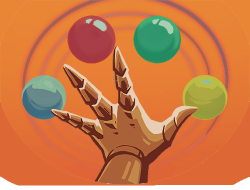
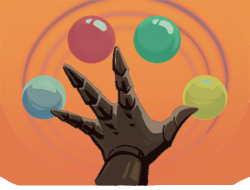
Added Interrupt and Intron cards; updated artwork for various cards

Changed region(s): [[0.196, 0.2368, 0.812, 1.0]]

diff --git a/src/main/java/hydrahatrack/clintock/cards/A17.java b/src/main/java/hydrahatrack/clintock/cards/A17.java
@@ -1,0 +1,65 @@
+package hydrahatrack.clintock.cards;
+
+import basemod.abstracts.CustomCard;
+import com.megacrit.cardcrawl.actions.AbstractGameAction;
+import com.megacrit.cardcrawl.actions.animations.VFXAction;
+import com.megacrit.cardcrawl.actions.common.ApplyPowerAction;
+import com.megacrit.cardcrawl.actions.common.DamageAllEnemiesAction;
+import com.megacrit.cardcrawl.actions.utility.SFXAction;
+import com.megacrit.cardcrawl.characters.AbstractPlayer;
+import com.megacrit.cardcrawl.core.CardCrawlGame;
+import com.megacrit.cardcrawl.dungeons.AbstractDungeon;
+import com.megacrit.cardcrawl.localization.CardStrings;
+import com.megacrit.cardcrawl.monsters.AbstractMonster;
+import com.megacrit.cardcrawl.powers.VulnerablePower;
+import com.megacrit.cardcrawl.vfx.combat.CleaveEffect;
+import hydrahatrack.clintock.ClintockMod;
+import hydrahatrack.clintock.enums.AbstractCardEnum;
+import hydrahatrack.clintock.powers.PeptideChainPower;
+
+public class A17 extends CustomCard {
+    public static final String ID = "clintock:A17";
+    private static final CardStrings cardStrings = CardCrawlGame.languagePack.getCardStrings(ID);
+    public static final String NAME = cardStrings.NAME;
+    public static final String DESCRIPTION = cardStrings.DESCRIPTION;
+    private static final int COST = 2;
+    private static final int ATTACK_DMG = 11;
+    private static final int VULNERABLE_AMOUNT = 2;
+    private static final int UPGRADE_PLUS_ATTACK_DMG = 3;
+    private static final int UPGRADE_PLUS_VULNERABLE_AMOUNT = 1;
+
+    public A17() {
+        super(ID, NAME, ClintockMod.getCardImagePath(ID), COST, DESCRIPTION, CardType.ATTACK,
+                AbstractCardEnum.CLINTOCK_COLOR, CardRarity.UNCOMMON, CardTarget.ALL_ENEMY);
+
+        this.baseDamage = this.damage = ATTACK_DMG;
+        this.baseMagicNumber = this.magicNumber = VULNERABLE_AMOUNT;
+        this.isMultiDamage = true;
+    }
+
+    @Override
+    public void use(final AbstractPlayer p, final AbstractMonster m) {
+        AbstractDungeon.actionManager.addToBottom(new SFXAction("ATTACK_HEAVY"));
+        AbstractDungeon.actionManager.addToBottom(new VFXAction(p, new CleaveEffect(), 0.1F));
+        AbstractDungeon.actionManager.addToBottom(new DamageAllEnemiesAction(
+                p, this.multiDamage, this.damageType, AbstractGameAction.AttackEffect.NONE, false));
+
+        PeptideChainPower power = (PeptideChainPower) p.getPower(PeptideChainPower.POWER_ID);
+        if (null != power && power.containsAtLeastOneNonessentialAminoAcid()) {
+            for (AbstractMonster mo : AbstractDungeon.getCurrRoom().monsters.monsters) {
+                AbstractDungeon.actionManager.addToBottom(
+                        new ApplyPowerAction(mo, p, new VulnerablePower(mo, this.magicNumber, false),
+                                this.magicNumber, true, AbstractGameAction.AttackEffect.NONE));
+            }
+        }
+    }
+
+    @Override
+    public void upgrade() {
+        if (!this.upgraded) {
+            upgradeName();
+            this.upgradeDamage(UPGRADE_PLUS_ATTACK_DMG);
+            this.upgradeMagicNumber(UPGRADE_PLUS_VULNERABLE_AMOUNT);
+        }
+    }
+}

diff --git a/src/main/java/hydrahatrack/clintock/cards/Interrupt.java b/src/main/java/hydrahatrack/clintock/cards/Interrupt.java
@@ -1,0 +1,48 @@
+package hydrahatrack.clintock.cards;
+
+import basemod.abstracts.CustomCard;
+import com.megacrit.cardcrawl.actions.AbstractGameAction;
+import com.megacrit.cardcrawl.actions.common.DamageAction;
+import com.megacrit.cardcrawl.actions.common.MakeTempCardInDrawPileAction;
+import com.megacrit.cardcrawl.cards.DamageInfo;
+import com.megacrit.cardcrawl.characters.AbstractPlayer;
+import com.megacrit.cardcrawl.core.CardCrawlGame;
+import com.megacrit.cardcrawl.dungeons.AbstractDungeon;
+import com.megacrit.cardcrawl.localization.CardStrings;
+import com.megacrit.cardcrawl.monsters.AbstractMonster;
+import hydrahatrack.clintock.ClintockMod;
+import hydrahatrack.clintock.enums.AbstractCardEnum;
+
+public class Interrupt extends CustomCard {
+    public static final String ID = "clintock:Interrupt";
+    private static final CardStrings cardStrings = CardCrawlGame.languagePack.getCardStrings(ID);
+    public static final String NAME = cardStrings.NAME;
+    public static final String DESCRIPTION = cardStrings.DESCRIPTION;
+    private static final int COST = 1;
+    private static final int ATTACK_DMG = 13;
+    private static final int UPGRADE_PLUS_ATTACK_DMG = 5;
+
+    public Interrupt() {
+        super(ID, NAME, ClintockMod.getCardImagePath(ID), COST, DESCRIPTION, CardType.ATTACK,
+                AbstractCardEnum.CLINTOCK_COLOR, CardRarity.COMMON, CardTarget.ENEMY);
+
+        this.baseDamage = this.damage = ATTACK_DMG;
+    }
+
+    @Override
+    public void use(final AbstractPlayer p, final AbstractMonster m) {
+        AbstractDungeon.actionManager.addToBottom(new DamageAction(
+                m, new DamageInfo(p, this.damage, this.damageTypeForTurn),
+                AbstractGameAction.AttackEffect.SLASH_HEAVY));
+        AbstractDungeon.actionManager.addToBottom(
+                new MakeTempCardInDrawPileAction(new Intron(), 1, true, true));
+    }
+
+    @Override
+    public void upgrade() {
+        if (!this.upgraded) {
+            this.upgradeName();
+            this.upgradeDamage(UPGRADE_PLUS_ATTACK_DMG);
+        }
+    }
+}

diff --git a/src/main/java/hydrahatrack/clintock/cards/Intron.java b/src/main/java/hydrahatrack/clintock/cards/Intron.java
@@ -1,0 +1,44 @@
+package hydrahatrack.clintock.cards;
+
+import basemod.abstracts.CustomCard;
+import com.megacrit.cardcrawl.actions.common.ApplyPowerAction;
+import com.megacrit.cardcrawl.actions.utility.UseCardAction;
+import com.megacrit.cardcrawl.characters.AbstractPlayer;
+import com.megacrit.cardcrawl.core.CardCrawlGame;
+import com.megacrit.cardcrawl.dungeons.AbstractDungeon;
+import com.megacrit.cardcrawl.localization.CardStrings;
+import com.megacrit.cardcrawl.monsters.AbstractMonster;
+import com.megacrit.cardcrawl.relics.MedicalKit;
+import hydrahatrack.clintock.ClintockMod;
+import hydrahatrack.clintock.powers.InterruptedPower;
+
+public class Intron extends CustomCard {
+    public static final String ID = "clintock:Intron";
+    private static final CardStrings cardStrings = CardCrawlGame.languagePack.getCardStrings(ID);
+    public static final String NAME = cardStrings.NAME;
+    public static final String DESCRIPTION = cardStrings.DESCRIPTION;
+    private static final int COST = -2;
+
+    public Intron() {
+        super(ID, NAME, ClintockMod.getCardImagePath(ID), COST, DESCRIPTION, CardType.STATUS,
+                CardColor.COLORLESS, CardRarity.COMMON, CardTarget.NONE);
+    }
+
+    @Override
+    public void triggerWhenDrawn() {
+        AbstractDungeon.actionManager.addToTop(new ApplyPowerAction(
+                AbstractDungeon.player, AbstractDungeon.player,
+                new InterruptedPower(AbstractDungeon.player)));
+    }
+
+    public void use(final AbstractPlayer p, final AbstractMonster m) {
+        if (p.hasRelic(MedicalKit.ID)) {
+            useMedicalKit(p);
+        } else {
+            AbstractDungeon.actionManager.addToBottom(new UseCardAction(this));
+        }
+    }
+
+    @Override
+    public void upgrade() {}
+}

diff --git a/src/main/java/hydrahatrack/clintock/powers/InterruptedPower.java b/src/main/java/hydrahatrack/clintock/powers/InterruptedPower.java
@@ -1,0 +1,46 @@
+package hydrahatrack.clintock.powers;
+
+import com.badlogic.gdx.graphics.Texture;
+import com.megacrit.cardcrawl.actions.common.RemoveSpecificPowerAction;
+import com.megacrit.cardcrawl.core.AbstractCreature;
+import com.megacrit.cardcrawl.core.CardCrawlGame;
+import com.megacrit.cardcrawl.dungeons.AbstractDungeon;
+import com.megacrit.cardcrawl.helpers.ImageMaster;
+import com.megacrit.cardcrawl.localization.PowerStrings;
+import com.megacrit.cardcrawl.powers.AbstractPower;
+import hydrahatrack.clintock.ClintockMod;
+
+public class InterruptedPower extends AbstractPower {
+    public static final String POWER_ID = "clintock:InterruptedPower";
+    private static final PowerStrings powerStrings = CardCrawlGame.languagePack.getPowerStrings(POWER_ID);
+    public static final String NAME = powerStrings.NAME;
+    public static final String[] DESCRIPTIONS = powerStrings.DESCRIPTIONS;
+    private static final Texture IMG = ImageMaster.loadImage(ClintockMod.getPowerImagePath(POWER_ID));
+
+    public InterruptedPower(final AbstractCreature owner) {
+        this.ID = POWER_ID;
+        this.name = NAME;
+        this.owner = owner;
+        this.img = IMG;
+        this.updateDescription();
+    }
+
+    @Override
+    public void atEndOfTurn(final boolean isPlayer) {
+        if (isPlayer) {
+            AbstractDungeon.actionManager.addToBottom(
+                    new RemoveSpecificPowerAction(this.owner, this.owner, this.ID));
+        }
+    }
+
+    @Override
+    public void playApplyPowerSfx() {
+        CardCrawlGame.sound.play("ENTANGLE", 0.05F);
+    }
+
+    @Override
+    public void updateDescription() {
+        this.description = DESCRIPTIONS[0];
+        this.type = PowerType.DEBUFF;
+    }
+}

diff --git a/src/main/java/hydrahatrack/clintock/orbs/GuanineOrb.java b/src/main/java/hydrahatrack/clintock/orbs/GuanineOrb.java
@@ -9,6 +9,7 @@ import com.megacrit.cardcrawl.localization.OrbStrings;
 import com.megacrit.cardcrawl.orbs.AbstractOrb;
 import com.megacrit.cardcrawl.vfx.combat.OrbFlareEffect;
 import hydrahatrack.clintock.ClintockMod;
+import hydrahatrack.clintock.powers.InterruptedPower;
 
 public class GuanineOrb extends NucleobaseOrb {
     private static final String ORB_ID = "clintock:GuanineOrb";
@@ -38,8 +39,12 @@ public class GuanineOrb extends NucleobaseOrb {
 
     @Override
     public void onStartOfTurn() {
-        AbstractDungeon.actionManager.addToBottom(new VFXAction(
-                new OrbFlareEffect(this, OrbFlareEffect.OrbFlareColor.PLASMA), 0.1F));
-        AbstractDungeon.actionManager.addToBottom(new GainEnergyAction(ENERGY_AMOUNT));
+        if (AbstractDungeon.player.hasPower(InterruptedPower.POWER_ID)) {
+            AbstractDungeon.player.getPower(InterruptedPower.POWER_ID).flash();
+        } else {
+            AbstractDungeon.actionManager.addToBottom(new VFXAction(
+                    new OrbFlareEffect(this, OrbFlareEffect.OrbFlareColor.PLASMA), 0.1F));
+            AbstractDungeon.actionManager.addToBottom(new GainEnergyAction(ENERGY_AMOUNT));
+        }
     }
 }

diff --git a/src/main/java/hydrahatrack/clintock/orbs/CytosineOrb.java b/src/main/java/hydrahatrack/clintock/orbs/CytosineOrb.java
@@ -8,6 +8,7 @@ import com.megacrit.cardcrawl.localization.OrbStrings;
 import com.megacrit.cardcrawl.orbs.AbstractOrb;
 import hydrahatrack.clintock.ClintockMod;
 import hydrahatrack.clintock.actions.CytosineOrbPassiveAction;
+import hydrahatrack.clintock.powers.InterruptedPower;
 
 public class CytosineOrb extends NucleobaseOrb {
     private static final String ORB_ID = "clintock:CytosineOrb";
@@ -40,7 +41,11 @@ public class CytosineOrb extends NucleobaseOrb {
 
     @Override
     public void onEndOfTurn() {
-        AbstractDungeon.actionManager.addToBottom(new CytosineOrbPassiveAction(
-                new DamageInfo(AbstractDungeon.player, this.passiveAmount, DamageInfo.DamageType.THORNS), this));
+        if (AbstractDungeon.player.hasPower(InterruptedPower.POWER_ID)) {
+            AbstractDungeon.player.getPower(InterruptedPower.POWER_ID).flash();
+        } else {
+            AbstractDungeon.actionManager.addToBottom(new CytosineOrbPassiveAction(new DamageInfo(
+                    AbstractDungeon.player, this.passiveAmount, DamageInfo.DamageType.THORNS), this));
+        }
     }
 }

diff --git a/src/main/java/hydrahatrack/clintock/orbs/ThymineOrb.java b/src/main/java/hydrahatrack/clintock/orbs/ThymineOrb.java
@@ -8,6 +8,7 @@ import com.megacrit.cardcrawl.localization.OrbStrings;
 import com.megacrit.cardcrawl.orbs.AbstractOrb;
 import hydrahatrack.clintock.ClintockMod;
 import hydrahatrack.clintock.actions.ThymineOrbPassiveAction;
+import hydrahatrack.clintock.powers.InterruptedPower;
 
 public class ThymineOrb extends NucleobaseOrb {
     private static final String ORB_ID = "clintock:ThymineOrb";
@@ -40,7 +41,11 @@ public class ThymineOrb extends NucleobaseOrb {
 
     @Override
     public void onEndOfTurn() {
-        AbstractDungeon.actionManager.addToBottom(new ThymineOrbPassiveAction(
-                new DamageInfo(AbstractDungeon.player, this.passiveAmount, DamageInfo.DamageType.THORNS), this));
+        if (AbstractDungeon.player.hasPower(InterruptedPower.POWER_ID)) {
+            AbstractDungeon.player.getPower(InterruptedPower.POWER_ID).flash();
+        } else {
+            AbstractDungeon.actionManager.addToBottom(new ThymineOrbPassiveAction(new DamageInfo(
+                    AbstractDungeon.player, this.passiveAmount, DamageInfo.DamageType.THORNS), this));
+        }
     }
 }

diff --git a/src/main/java/hydrahatrack/clintock/orbs/AdenineOrb.java b/src/main/java/hydrahatrack/clintock/orbs/AdenineOrb.java
@@ -7,6 +7,7 @@ import com.megacrit.cardcrawl.localization.OrbStrings;
 import com.megacrit.cardcrawl.orbs.AbstractOrb;
 import hydrahatrack.clintock.ClintockMod;
 import hydrahatrack.clintock.actions.AdenineOrbPassiveAction;
+import hydrahatrack.clintock.powers.InterruptedPower;
 
 public class AdenineOrb extends NucleobaseOrb {
     public static final String ORB_ID = "clintock:AdenineOrb";
@@ -39,6 +40,10 @@ public class AdenineOrb extends NucleobaseOrb {
 
     @Override
     public void onEndOfTurn() {
-        AbstractDungeon.actionManager.addToBottom(new AdenineOrbPassiveAction(this));
+        if (AbstractDungeon.player.hasPower(InterruptedPower.POWER_ID)) {
+            AbstractDungeon.player.getPower(InterruptedPower.POWER_ID).flash();
+        } else {
+            AbstractDungeon.actionManager.addToBottom(new AdenineOrbPassiveAction(this));
+        }
     }
 }

diff --git a/src/main/java/hydrahatrack/clintock/characters/TheClintock.java b/src/main/java/hydrahatrack/clintock/characters/TheClintock.java
@@ -84,6 +84,7 @@ public class TheClintock extends CustomPlayer {
 //        startingDeck.add(A12.ID);
         startingDeck.add(A14.ID);
         startingDeck.add(A16.ID);
+        startingDeck.add(A17.ID);
 //        startingDeck.add(Acupuncture.ID); // DONE
 //        startingDeck.add(Alkylation.ID);
         startingDeck.add(ATPReserves.ID);
@@ -104,6 +105,7 @@ public class TheClintock extends CustomPlayer {
 //        startingDeck.add(GeneAmplification.ID); // DONE
         startingDeck.add(GlucoseToxicity.ID);
         startingDeck.add(Immunodeficiency.ID);
+        startingDeck.add(Interrupt.ID);
         // startingDeck.add(Ketosis.ID); // DONE
         startingDeck.add(MetabolicPathways.ID);
 //        startingDeck.add(MineAndDine.ID);

diff --git a/src/main/java/hydrahatrack/clintock/ClintockMod.java b/src/main/java/hydrahatrack/clintock/ClintockMod.java
@@ -120,6 +120,7 @@ public class ClintockMod implements
         BaseMod.addCard(new A12());
         BaseMod.addCard(new A14());
         BaseMod.addCard(new A16());
+        BaseMod.addCard(new A17());
         BaseMod.addCard(new Acupuncture());
         BaseMod.addCard(new Adenine());
         BaseMod.addCard(new Alkylation());
@@ -143,6 +144,7 @@ public class ClintockMod implements
         BaseMod.addCard(new GlucoseToxicity());
         BaseMod.addCard(new Guanine());
         BaseMod.addCard(new Immunodeficiency());
+        BaseMod.addCard(new Interrupt());
         BaseMod.addCard(new Ketosis());
         BaseMod.addCard(new MetabolicPathways());
         BaseMod.addCard(new MineAndDine());
